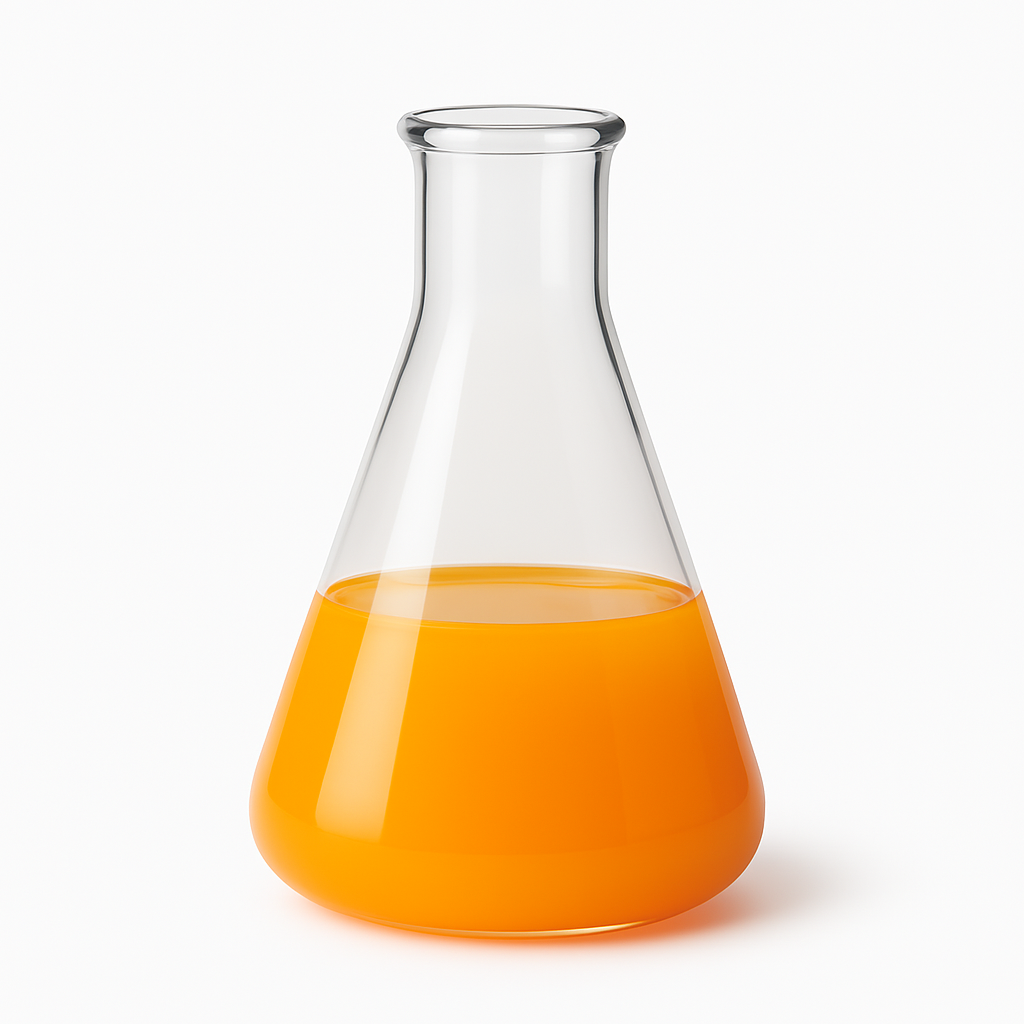
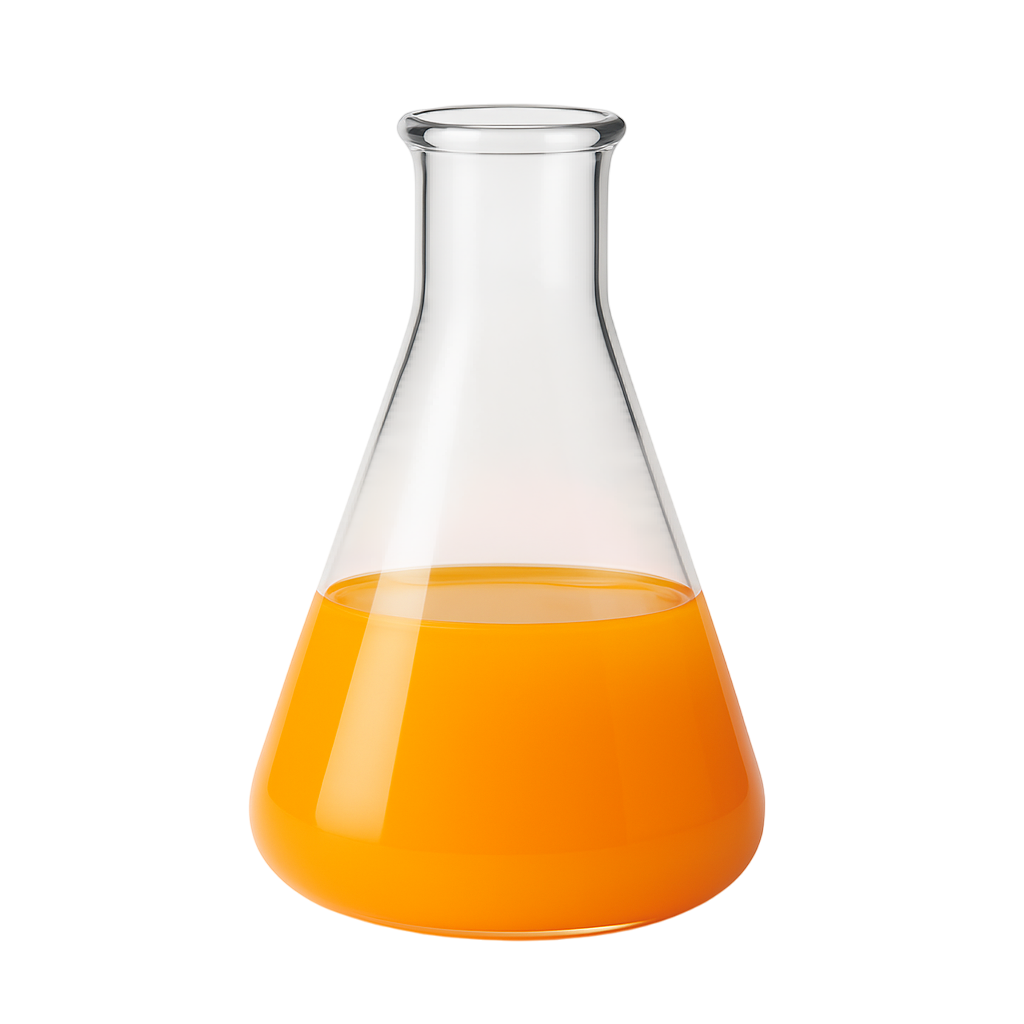
udpated

Changed region(s): [[0.2812, 0.8125, 0.8438, 0.9375]]

diff --git a/preview/konics-activity/activity.html b/preview/konics-activity/activity.html
@@ -63,35 +63,40 @@
 
             <!-- Beaker Grid -->
             <section class="beaker-grid">
-                <div class="beaker" id="beakerA">
-                    <img src="./water_beaker.png" />
-                    <label>A<br><small>Water</small></label>
+                <div class="beaker-row">
+                    <div class="beaker" id="beakerA">
+                        <img src="./water_beaker.png" />
+                        <label>A<br><small>Water</small></label>
+                    </div>
+                    <div class="beaker" id="beakerB">
+                        <img src="./orange_beaker.png" />
+                        <label>B<br><small>Orange <br> Juice</small></label>
+                    </div>
+                    <div class="beaker" id="beakerC">
+                        <img src="./vinegar_beaker.png" />
+                        <label>C<br><small>Vinegar</small></label>
+                    </div>
+                    <div class="beaker" id="beakerD">
+                        <img src="./tea_beaker.png" />
+                        <label>D<br><small>Tea</small></label>
+                    </div>
                 </div>
-                <div class="beaker" id="beakerB">
-                    <img src="./orange_beaker.png" />
-                    <label>B<br><small>Orange Juice</small></label>
-                </div>
-                <div class="beaker" id="beakerC">
-                    <img src="./vinegar_beaker.png" />
-                    <label>C<br><small>Vinegar</small></label>
-                </div>
-                <div class="beaker" id="beakerD">
-                    <img src="./tea_beaker.png" />
-                    <label>D<br><small>Tea</small></label>
-                </div>
-                <div class="beaker" id="beakerE">
-                    <img src="./soap_beaker.png" />
-                    <label>E<br><small>Liquid Soap</small></label>
-                </div>
-                <div class="beaker" id="beakerF">
-                    <img src="./naoh_beaker.png" />
-                    <label>F<br><small>Sodium Hydroxide</small></label>
-                </div>
-                <div class="beaker" id="beakerG">
-                    <img src="./hcl_beaker.png" />
-                    <label>G<br><small>Hydrochloric Acid</small></label>
+                <div class="beaker-row center-row">
+                    <div class="beaker" id="beakerE">
+                        <img src="./soap_beaker.png" />
+                        <label>E<br><small>Liquid Soap</small></label>
+                    </div>
+                    <div class="beaker" id="beakerF">
+                        <img src="./naoh_beaker.png" />
+                        <label>F<br><small>Sodium <br> Hydroxide</small></label>
+                    </div>
+                    <div class="beaker" id="beakerG">
+                        <img src="./hcl_beaker.png" />
+                        <label>G<br><small>Hydrochloric <br> Acid</small></label>
+                    </div>
                 </div>
             </section>
+
 
             <!-- Observation Table -->
             <section class="observation-table">
@@ -173,6 +178,8 @@
         function placeStripAboveBeaker(beakerEl, stripId, reaction) {
             const color = stripId.includes("blue") ? "blue" : "red";
             const stripClass = `dropped-strip-${color}`;
+
+            // ✅ Only remove same-color strip, not both
             const previous = beakerEl.querySelector(`.${stripClass}`);
             if (previous) previous.remove();
 
@@ -182,12 +189,13 @@
             strip.style.position = "absolute";
             strip.style.width = "40px";
             strip.style.height = "80px";
-            strip.style.left = "50%";
+            strip.style.left = color === "blue" ? "40%" : "60%"; // ✅ Side-by-side
             strip.style.transform = "translateX(-50%)";
             strip.style.top = "-60px";
             beakerEl.style.position = "relative";
             beakerEl.appendChild(strip);
         }
+
 
         function enableDropHandlers() {
             const beakers = document.querySelectorAll('.beaker');
@@ -264,24 +272,22 @@
                     if (beaker) {
                         const originalId = activeStrip.dataset.originalId;
                         const color = originalId.includes("blue") ? "blue" : "red";
-
                         const stripClass = `dropped-strip-${color}`;
                         const previous = beaker.querySelector(`.${stripClass}`);
                         if (previous) previous.remove();
-
                         const reaction = reactionMatrix[beaker.id][color];
-
                         const dropped = document.createElement("img");
                         dropped.src = getStripImage(color, reaction);
                         dropped.className = `dropped-strip ${stripClass}`;
                         dropped.style.position = "absolute";
                         dropped.style.width = "40px";
                         dropped.style.height = "80px";
-                        dropped.style.left = "50%";
+                        dropped.style.left = color === "blue" ? "40%" : "60%"; // ✅ show both
                         dropped.style.transform = "translateX(-50%)";
                         dropped.style.top = "-60px";
                         beaker.style.position = "relative";
                         beaker.appendChild(dropped);
+
 
                         applyReaction(beaker, originalId);
                     }

diff --git a/preview/konics-activity/style.css b/preview/konics-activity/style.css
@@ -81,13 +81,34 @@ body {
     font-size: 16px;
 }
 
+
 .beaker-grid {
-    display: grid;
-    grid-template-columns: repeat(3, 1fr);
+    display: flex;
+    flex-direction: column;
+    align-items: center;
     gap: 1rem;
-    justify-items: center;
     margin: 1rem 0;
 }
+
+.beaker-row {
+    display: flex;
+    gap: 3px;
+    flex-wrap: wrap;
+    justify-content: center;
+    align-items: center;
+    justify-content: c;
+}
+
+.beaker {
+    text-align: center;
+    margin: 5px;
+    display: flex;
+    flex-direction: column;
+
+    align-items: center;
+    justify-content: center;
+}
+
 
 .strip-holder {
     display: flex;
@@ -128,7 +149,7 @@ body {
     opacity: 0.4;
     pointer-events: none;
 }
-
+/* 
 .overlay-acidic {
     background: rgba(255, 0, 102, 0.5);
 }
@@ -139,7 +160,7 @@ body {
 
 .overlay-neutral {
     background: rgba(192, 192, 192, 0.2);
-}
+} */
 
 
 .dropped-strip {
@@ -157,17 +178,6 @@ body {
     pointer-events: none;
 }
 
-.overlay-acidic {
-    background: rgba(255, 0, 102, 0.5);
-}
-
-.overlay-alkaline {
-    background: rgba(0, 153, 255, 0.5);
-}
-
-.overlay-neutral {
-    background: rgba(192, 192, 192, 0.2);
-}
 .dropped-strip {
     pointer-events: none;
     z-index: 5;
